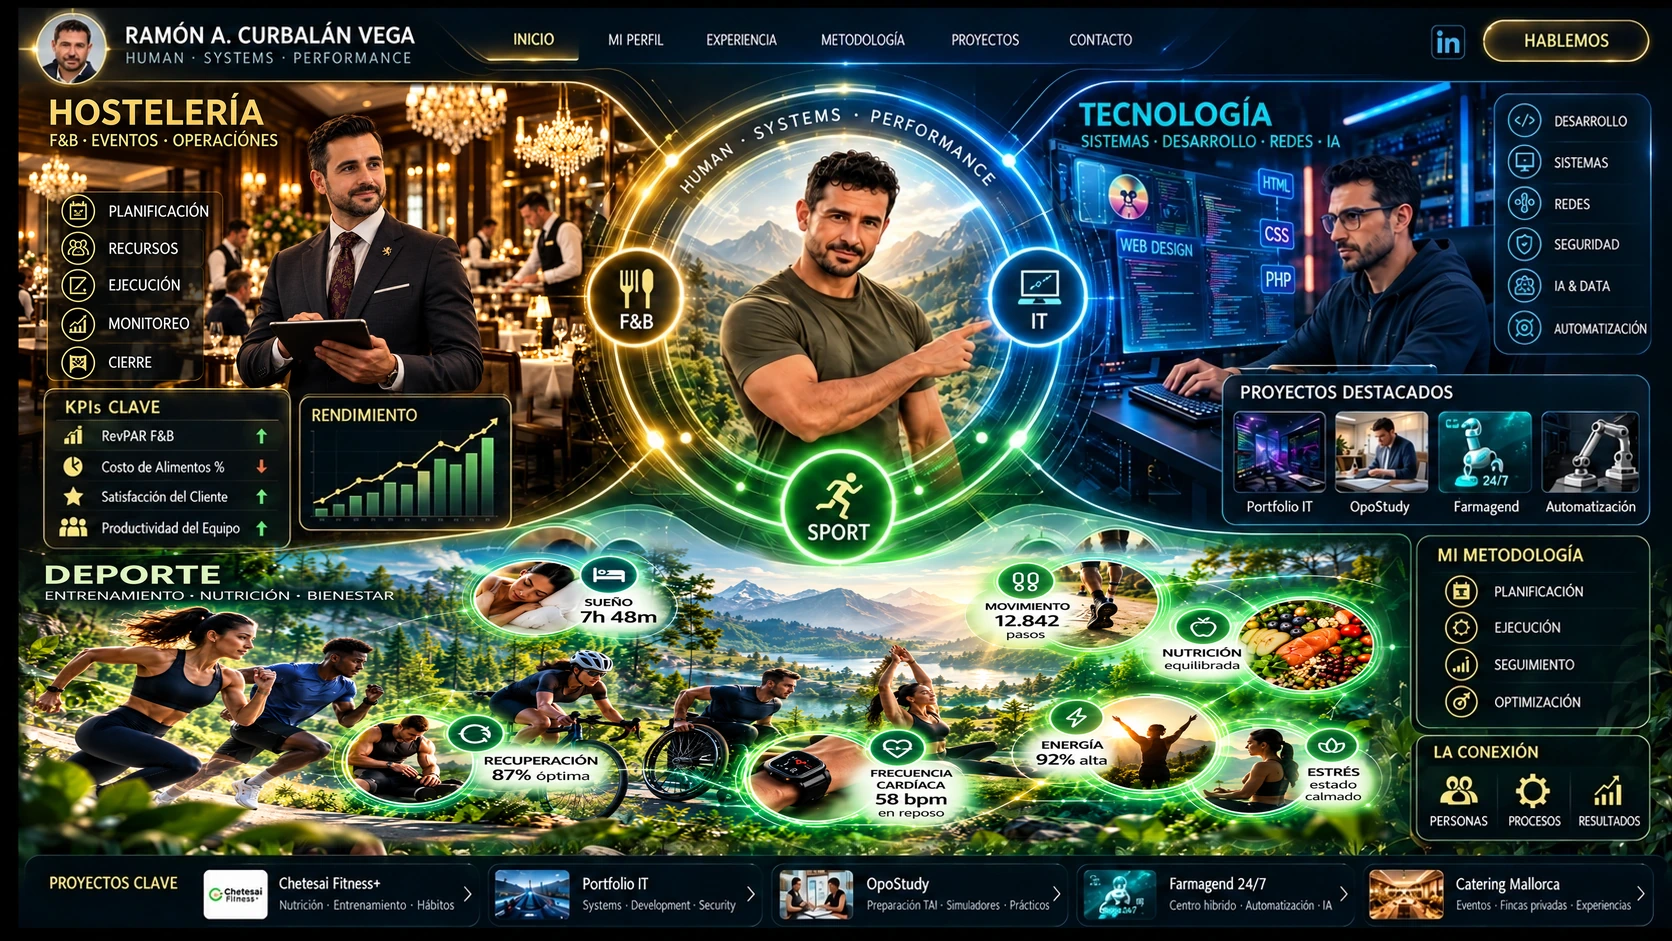
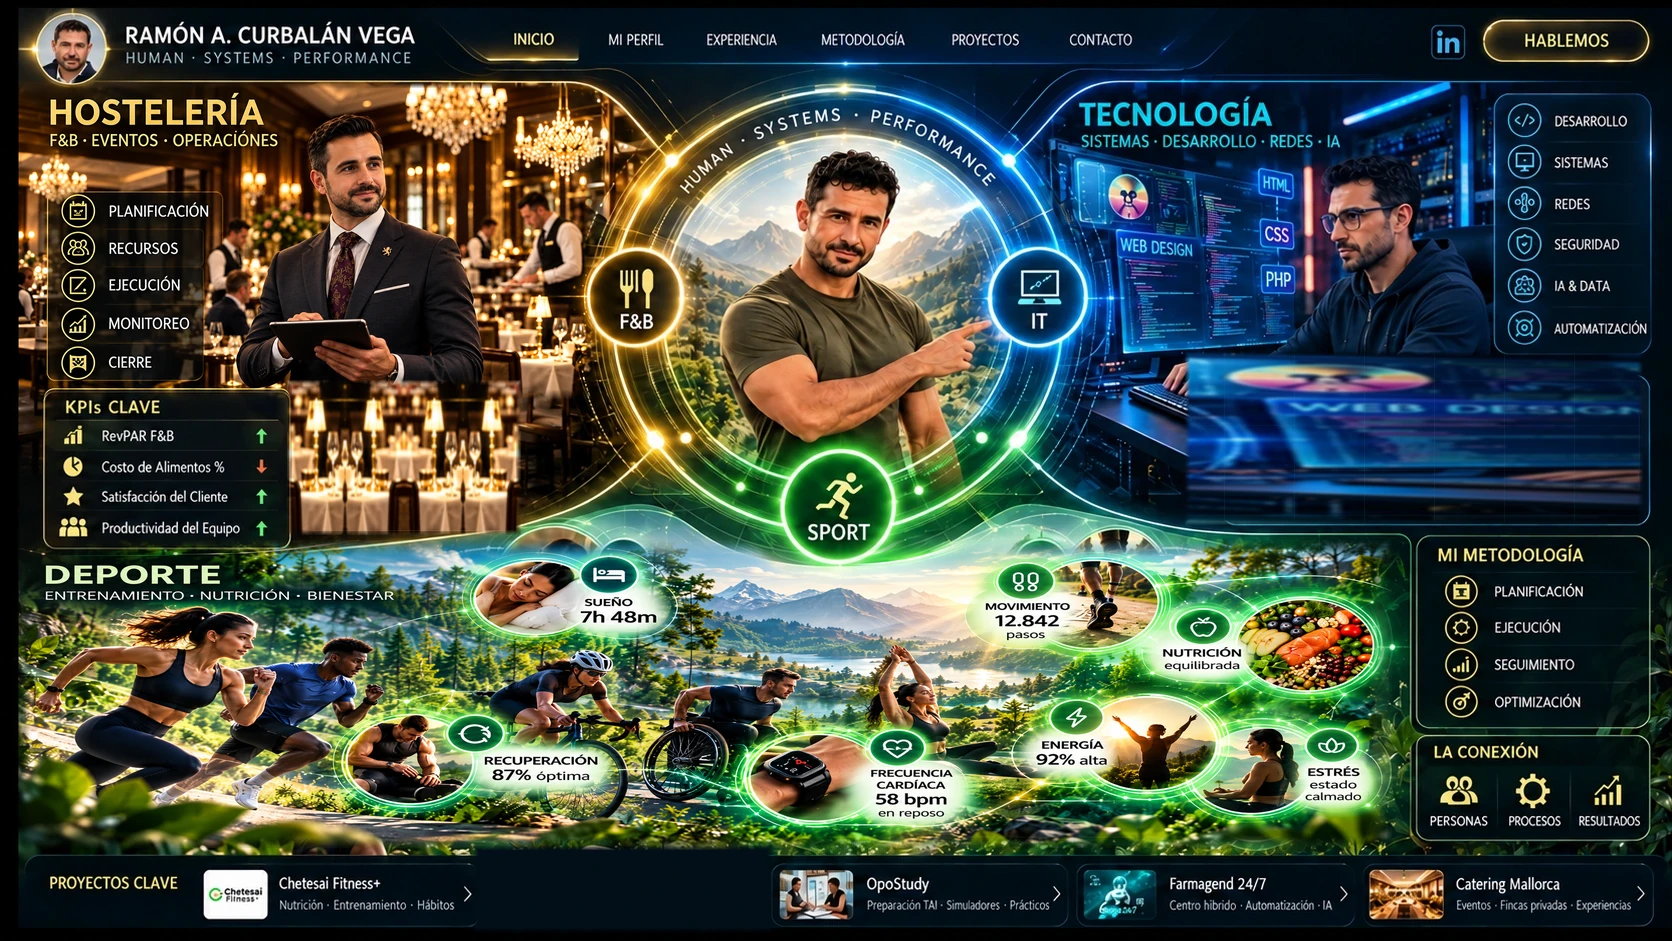
Remove marked cluster panels and inactive hotspots

Changed region(s): [[0.6842, 0.3698, 0.9952, 0.5547], [0.1555, 0.4006, 0.311, 0.5855], [0.2799, 0.8937, 0.4665, 0.9862]]

diff --git a/index.html b/index.html
@@ -23,7 +23,7 @@ dialog p{margin:0;color:#c9d6dc;line-height:1.65}
 </head>
 <body>
 <main class="cluster-stage" id="cluster">
-<img src="assets/cluster-approved.webp?v=deporte-integrado" alt="Cluster Human Systems Performance de Ramón A. Curbalán Vega">
+<img src="assets/cluster-approved.webp?v=clean-zones" alt="Cluster Human Systems Performance de Ramón A. Curbalán Vega">
 
 <!-- navegación -->
 <button class="hotspot" style="left:28.4%;top:0;width:5.3%;height:6.8%" data-open="Inicio" aria-label="Inicio"></button>
@@ -43,12 +43,8 @@ dialog p{margin:0;color:#c9d6dc;line-height:1.65}
 <!-- hostelería -->
 <button class="hotspot" style="left:1.8%;top:18.6%;width:10.5%;height:22%" data-open="Hostelería" aria-label="Operaciones de hostelería"></button>
 <button class="hotspot" style="left:1.4%;top:40.3%;width:15.1%;height:17.4%" data-open="KPIs" aria-label="KPIs de hostelería"></button>
-<button class="hotspot" style="left:16.5%;top:40.3%;width:13%;height:17.4%" data-open="Rendimiento" aria-label="Rendimiento"></button>
-
 <!-- tecnología -->
 <button class="hotspot" style="left:88.7%;top:8.8%;width:9.6%;height:27%" data-open="Tecnología" aria-label="Áreas de tecnología"></button>
-<button class="hotspot" style="left:72.7%;top:37.5%;width:25.2%;height:17.6%" data-open="Proyectos destacados" aria-label="Proyectos destacados"></button>
-
 <!-- deporte -->
 <button class="hotspot" style="left:22%;top:54%;width:61%;height:35%" data-open="Deporte" aria-label="Rendimiento deportivo"></button>
 
@@ -58,7 +54,6 @@ dialog p{margin:0;color:#c9d6dc;line-height:1.65}
 
 <!-- proyectos inferiores -->
 <a class="hotspot" style="left:11%;top:90.2%;width:17%;height:8%" href="https://chetesaifitness.com/" target="_blank" rel="noreferrer" aria-label="Chetesaí Fitness+"></a>
-<a class="hotspot" style="left:28.4%;top:90.2%;width:16%;height:8%" href="https://raymonchu48.github.io/Portfolio/" target="_blank" rel="noreferrer" aria-label="Portfolio IT"></a>
 <button class="hotspot" style="left:44.8%;top:90.2%;width:18.2%;height:8%" data-open="OpoStudy" aria-label="OpoStudy"></button>
 <button class="hotspot" style="left:63%;top:90.2%;width:17%;height:8%" data-open="Farmagend 24/7" aria-label="Farmagend 24/7"></button>
 <a class="hotspot" style="left:80.2%;top:90.2%;width:18%;height:8%" href="https://github.com/Raymonchu48/Portfolio_Hosteleria" target="_blank" rel="noreferrer" aria-label="Catering Mallorca"></a>
